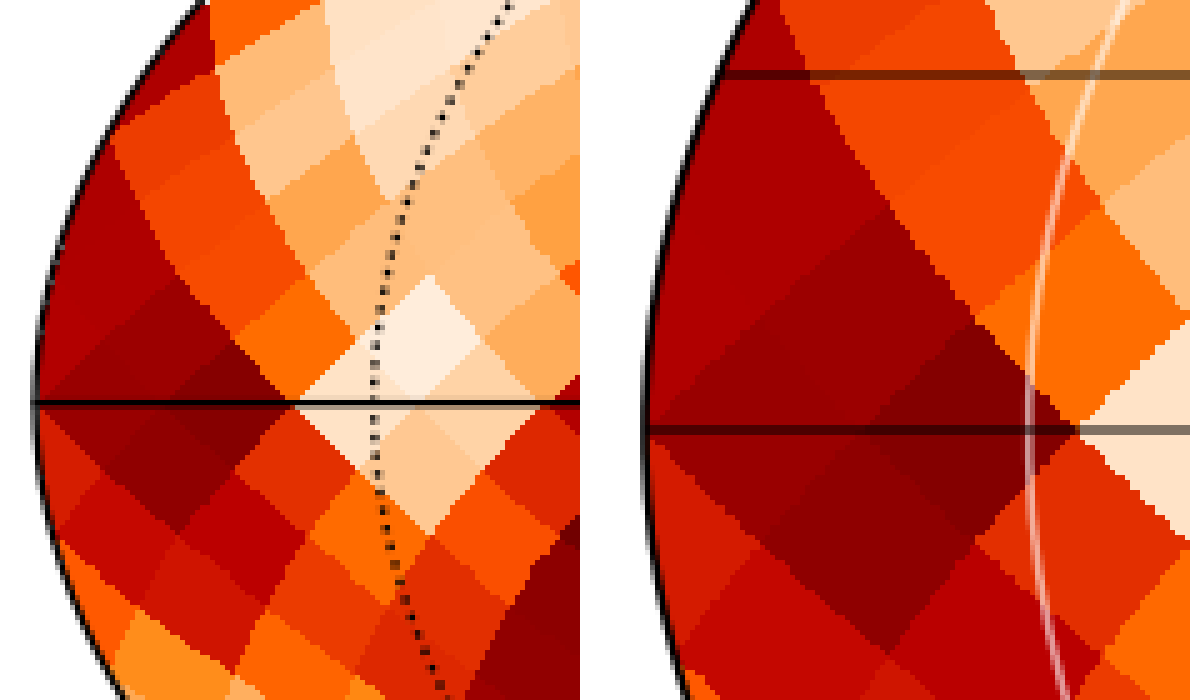
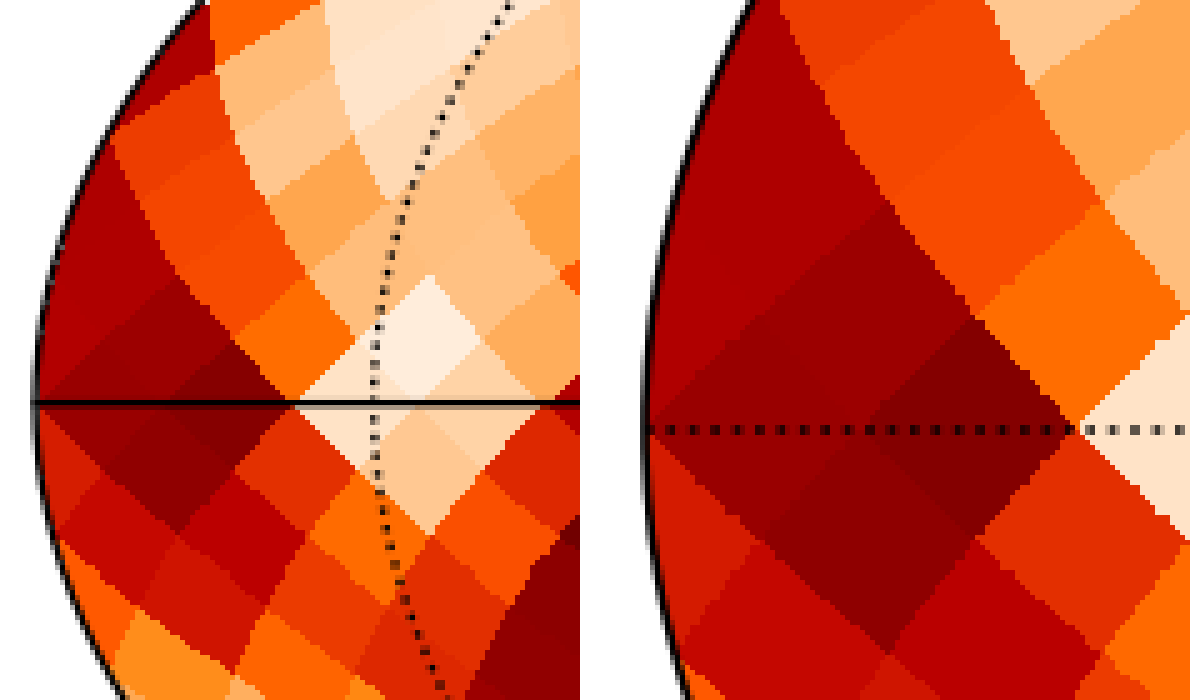
Give plot_mollweide options for its furniture, and a colourbar label that is not always kelvin
A figure made to be READ and one made to be COMPARED against someone else's want
different things: degree labels and seven colourbar ticks help the first and get in
the way of the second. All of it was hardcoded, so matching another group's figure
meant reaching into the axes afterwards.

New keywords, all defaulting to the previous behaviour: `graticule`, `labels`,
`lon_spacing`, `lat_spacing`, `grid_style`, `grid_alpha`, `colorbar`,
`colorbar_label`, `colorbar_ticks`, and `title`.

Two of those fix real faults rather than adding choice:

  * the colourbar said "Temperature (K)" unconditionally, so a normalised surface
    brightness came out labelled in kelvin — as ours did in every comparison figure
    in this directory until now;
  * `figtitle` names the FIGURE WINDOW and never appears in a saved file, so a saved
    plot had no title at all and our panel sat untitled beside one that was labelled.
    `title` sets a real axes title.

`lat_spacing` is now validated rather than only documented: it MUST divide 90, because
matplotlib labels parallels with `ThetaFormatter(lat_spacing)`, which rounds to
multiples of it — at 20 the ticks land at +-10, +-30, +-50, +-70 and every label is
wrong by 10-20 deg. A spacing that does not divide 90 is refused.

`zetand_render_map.jl` now matches the original through these options instead of
poking at the axes, and the comparison figure labels each panel, since with the
[…]

diff --git a/demos/zetand_overlay_facets.py b/demos/zetand_overlay_facets.py
@@ -106,8 +106,19 @@ def main():
     H, pad = 620, 24
     oi = o.resize((int(o.width*H/o.height), H), Image.LANCZOS)
     ui = u.resize((int(u.width*H/u.height), H), Image.LANCZOS)
-    cmp_ = Image.new("RGB", (oi.width + ui.width + 3*pad, H + 2*pad), "white")
-    cmp_.paste(oi, (pad, pad)); cmp_.paste(ui, (2*pad + oi.width, pad))
+    band = 34
+    cmp_ = Image.new("RGB", (oi.width + ui.width + 3*pad, H + 2*pad + band), "white")
+    cmp_.paste(oi, (pad, pad + band)); cmp_.paste(ui, (2*pad + oi.width, pad + band))
+    dr = ImageDraw.Draw(cmp_)
+    try:
+        from PIL import ImageFont
+        font = ImageFont.truetype("/usr/share/fonts/TTF/DejaVuSans-Bold.ttf", 22)
+    except Exception:
+        font = None
+    dr.text((pad + oi.width//2 - 160, 6), "Roettenbacher et al., from the PDF",
+            fill=(0, 0, 0), font=font)
+    dr.text((2*pad + oi.width + ui.width//2 - 190, 6),
+            "ROTIR plot_mollweide, map extracted from it", fill=(0, 0, 0), font=font)
     out = os.path.join(ZET, "zetAnd2019A_map_compare.png")
     cmp_.save(out); print("wrote", out)
 
